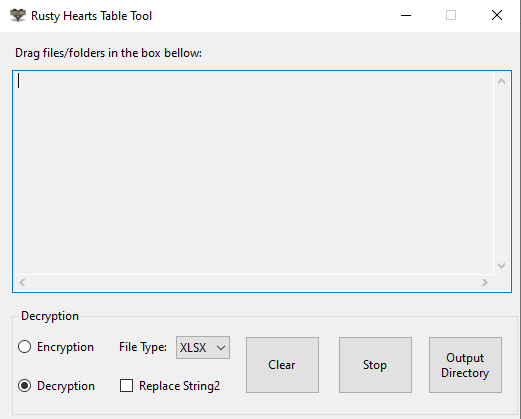
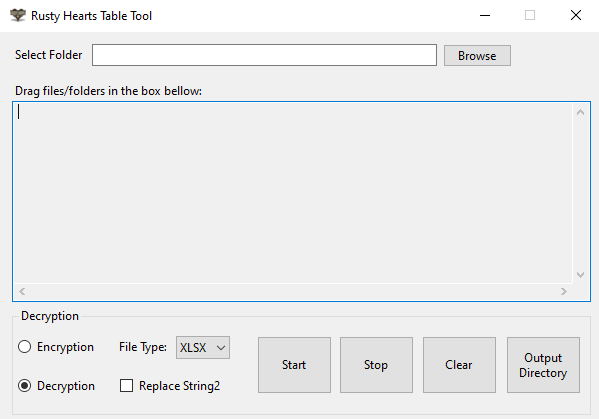
Added a option to select a folder. #6

diff --git a/Form1.Designer.cs b/Form1.Designer.cs
@@ -32,28 +32,32 @@
             System.ComponentModel.ComponentResourceManager resources = new System.ComponentModel.ComponentResourceManager(typeof(Form1));
             txtFile = new TextBox();
             groupBox1 = new GroupBox();
+            btnStart = new Button();
             btnOpenDir = new Button();
             btnStop = new Button();
             btnClear = new Button();
             cbxRepString2 = new CheckBox();
             cbxType = new ComboBox();
-            label1 = new Label();
+            lbFileType = new Label();
             rbtnDe = new RadioButton();
             rbtnEn = new RadioButton();
             label2 = new Label();
             toolTip1 = new ToolTip(components);
+            btnBrowseFolder = new Button();
+            tbBrowseFolder = new TextBox();
+            lbFolder = new Label();
             groupBox1.SuspendLayout();
             SuspendLayout();
             // 
             // txtFile
             // 
             txtFile.AllowDrop = true;
-            txtFile.Location = new Point(12, 38);
+            txtFile.Location = new Point(12, 69);
             txtFile.Multiline = true;
             txtFile.Name = "txtFile";
             txtFile.ReadOnly = true;
             txtFile.ScrollBars = ScrollBars.Both;
-            txtFile.Size = new Size(500, 223);
+            txtFile.Size = new Size(579, 201);
             txtFile.TabIndex = 0;
             txtFile.WordWrap = false;
             txtFile.DragDrop += txtFile_DragDrop;
@@ -61,24 +65,36 @@
             // 
             // groupBox1
             // 
+            groupBox1.Controls.Add(btnStart);
             groupBox1.Controls.Add(btnOpenDir);
             groupBox1.Controls.Add(btnStop);
             groupBox1.Controls.Add(btnClear);
             groupBox1.Controls.Add(cbxRepString2);
             groupBox1.Controls.Add(cbxType);
-            groupBox1.Controls.Add(label1);
+            groupBox1.Controls.Add(lbFileType);
             groupBox1.Controls.Add(rbtnDe);
             groupBox1.Controls.Add(rbtnEn);
             groupBox1.Location = new Point(12, 276);
             groupBox1.Name = "groupBox1";
-            groupBox1.Size = new Size(506, 108);
+            groupBox1.Size = new Size(579, 108);
             groupBox1.TabIndex = 1;
             groupBox1.TabStop = false;
             groupBox1.Text = "Decryption";
             // 
+            // btnStart
+            // 
+            btnStart.Location = new Point(245, 28);
+            btnStart.Name = "btnStart";
+            btnStart.Size = new Size(75, 58);
+            btnStart.TabIndex = 8;
+            btnStart.Text = "Start";
+            toolTip1.SetToolTip(btnStart, "Process the selected files on the selected path");
+            btnStart.UseVisualStyleBackColor = true;
+            btnStart.Click += btnStart_Click;
+            // 
             // btnOpenDir
             // 
-            btnOpenDir.Location = new Point(416, 28);
+            btnOpenDir.Location = new Point(494, 28);
             btnOpenDir.Name = "btnOpenDir";
             btnOpenDir.Size = new Size(75, 58);
             btnOpenDir.TabIndex = 7;
@@ -88,7 +104,7 @@
             // 
             // btnStop
             // 
-            btnStop.Location = new Point(326, 28);
+            btnStop.Location = new Point(327, 28);
             btnStop.Name = "btnStop";
             btnStop.Size = new Size(75, 58);
             btnStop.TabIndex = 6;
@@ -98,7 +114,7 @@
             // 
             // btnClear
             // 
-            btnClear.Location = new Point(233, 28);
+            btnClear.Location = new Point(410, 28);
             btnClear.Name = "btnClear";
             btnClear.Size = new Size(75, 58);
             btnClear.TabIndex = 5;
@@ -127,14 +143,14 @@
             cbxType.Size = new Size(54, 23);
             cbxType.TabIndex = 3;
             // 
-            // label1
+            // lbFileType
             // 
-            label1.AutoSize = true;
-            label1.Location = new Point(104, 31);
-            label1.Name = "label1";
-            label1.Size = new Size(55, 15);
-            label1.TabIndex = 2;
-            label1.Text = "File Type:";
+            lbFileType.AutoSize = true;
+            lbFileType.Location = new Point(104, 31);
+            lbFileType.Name = "lbFileType";
+            lbFileType.Size = new Size(55, 15);
+            lbFileType.TabIndex = 2;
+            lbFileType.Text = "File Type:";
             // 
             // rbtnDe
             // 
@@ -161,17 +177,47 @@
             // label2
             // 
             label2.AutoSize = true;
-            label2.Location = new Point(12, 13);
+            label2.Location = new Point(12, 51);
             label2.Name = "label2";
             label2.Size = new Size(194, 15);
             label2.TabIndex = 2;
             label2.Text = "Drag files/folders in the box bellow:";
             // 
+            // btnBrowseFolder
+            // 
+            btnBrowseFolder.Location = new Point(443, 12);
+            btnBrowseFolder.Name = "btnBrowseFolder";
+            btnBrowseFolder.Size = new Size(69, 23);
+            btnBrowseFolder.TabIndex = 3;
+            btnBrowseFolder.Text = "Browse";
+            btnBrowseFolder.UseVisualStyleBackColor = true;
+            btnBrowseFolder.Click += btnBrowseFolder_Click;
+            // 
+            // tbBrowseFolder
+            // 
+            tbBrowseFolder.Font = new Font("Segoe UI", 8F, FontStyle.Regular, GraphicsUnit.Point);
+            tbBrowseFolder.Location = new Point(92, 12);
+            tbBrowseFolder.Name = "tbBrowseFolder";
+            tbBrowseFolder.Size = new Size(345, 22);
+            tbBrowseFolder.TabIndex = 4;
+            // 
+            // lbFolder
+            // 
+            lbFolder.AutoSize = true;
+            lbFolder.Location = new Point(12, 15);
+            lbFolder.Name = "lbFolder";
+            lbFolder.Size = new Size(74, 15);
+            lbFolder.TabIndex = 5;
+            lbFolder.Text = "Select Folder";
+            // 
             // Form1
             // 
             AutoScaleDimensions = new SizeF(7F, 15F);
             AutoScaleMode = AutoScaleMode.Font;
-            ClientSize = new Size(520, 387);
+            ClientSize = new Size(599, 387);
+            Controls.Add(lbFolder);
+            Controls.Add(tbBrowseFolder);
+            Controls.Add(btnBrowseFolder);
             Controls.Add(label2);
             Controls.Add(groupBox1);
             Controls.Add(txtFile);
@@ -197,10 +243,14 @@
         private Button btnClear;
         private CheckBox cbxRepString2;
         private ComboBox cbxType;
-        private Label label1;
+        private Label lbFileType;
         private RadioButton rbtnDe;
         private RadioButton rbtnEn;
         private Label label2;
         private ToolTip toolTip1;
+        private Button btnBrowseFolder;
+        private TextBox tbBrowseFolder;
+        private Label lbFolder;
+        private Button btnStart;
     }
 }

diff --git a/Form1.cs b/Form1.cs
@@ -67,6 +67,7 @@
             }
         }
 
+
         public void FileDecryptEncrypt(string filePath)
         {
             byte[] bytes2 = null;
@@ -215,6 +216,60 @@
             }
             e.Effect = ee;
         }
+
+        private string selectedFolderPath;
+
+        private void btnBrowseFolder_Click(object sender, EventArgs e)
+        {
+            using FolderBrowserDialog folderBrowserDialog = new();
+            if (folderBrowserDialog.ShowDialog() == DialogResult.OK)
+            {
+                selectedFolderPath = folderBrowserDialog.SelectedPath;
+                tbBrowseFolder.Text = selectedFolderPath;
+            }
+        }
+
+        private void btnStart_Click(object sender, EventArgs e)
+        {
+            if (!string.IsNullOrEmpty(selectedFolderPath))
+            {
+                RunCrypt(selectedFolderPath);
+            }
+            else
+            {
+                MessageBox.Show("Please select a folder before starting.", "Folder Not Selected", MessageBoxButtons.OK, MessageBoxIcon.Warning);
+            }
+        }
+
+        private void RunCrypt(string folderPath)
+        {
+            if (!runing)
+            {
+                cancellationTokenSource = new CancellationTokenSource();
+                thread = new Thread(() => RuningThread(cancellationTokenSource.Token, folderPath));
+                repSting2 = cbxRepString2.Checked;
+                isEncrypt = rbtnEn.Checked;
+                cType = (CryptType)cbxType.SelectedIndex;
+                thread.Start();
+            }
+        }
+
+        private void RuningThread(CancellationToken cancellationToken, string folderPath)
+        {
+            string[] files = Directory.GetFiles(folderPath);
+
+            foreach (string path in files)
+            {
+                if (cancellationToken.IsCancellationRequested)
+                    break;
+
+                FileDecryptEncrypt(path);
+            }
+
+            runing = false;
+            thread = null;
+        }
+
 
         private void btnClear_Click(object sender, EventArgs e)
         {
